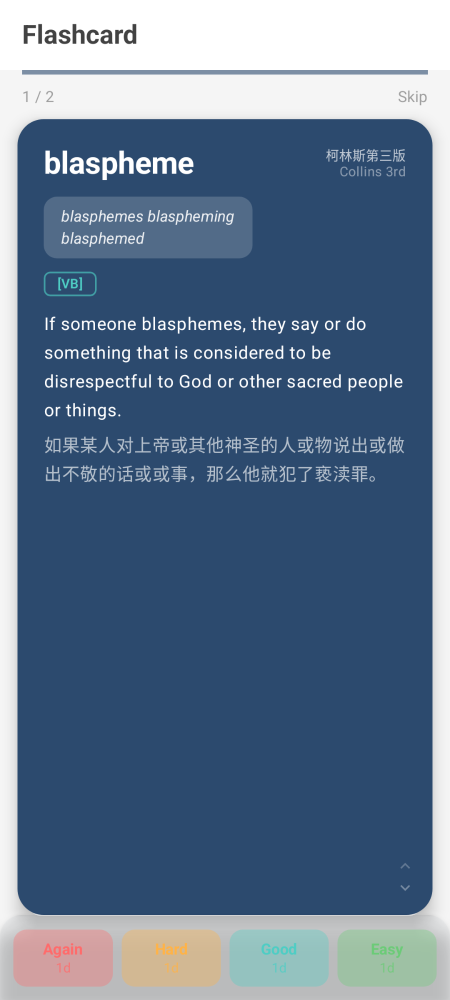
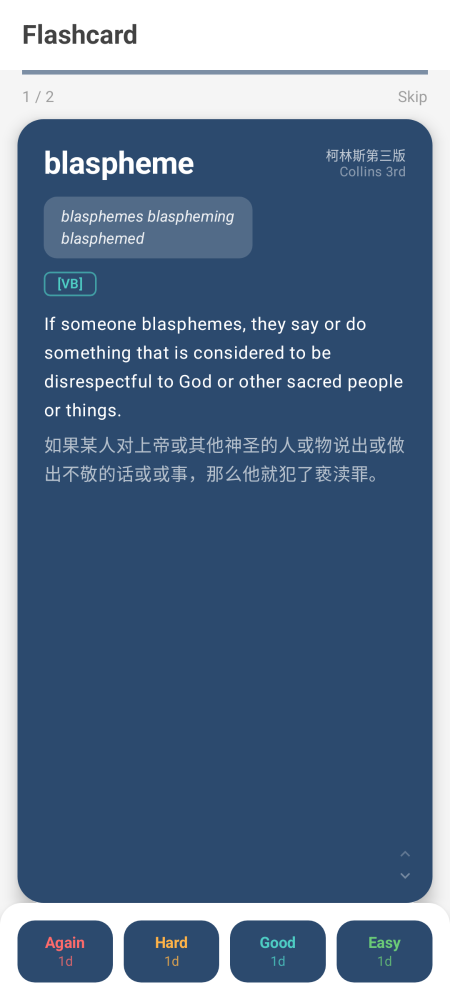
style: flashcard rating buttons - navy blue solid background with white container

Changed region(s): [[0.0, 0.868, 1.0, 1.0]]

diff --git a/android_project/app/src/test/java/io/github/gdict/ui/screens/ScreenshotTest.kt b/android_project/app/src/test/java/io/github/gdict/ui/screens/ScreenshotTest.kt
@@ -773,28 +773,20 @@ private fun FlashcardBackSnapshot() {
         Surface(
             modifier = Modifier.fillMaxWidth(),
             shape = RoundedCornerShape(topStart = 20.dp, topEnd = 20.dp),
-            color = GdictColors.NavyBlue.copy(alpha = 0.03f),
+            color = Color.White,
             shadowElevation = 8.dp
         ) {
-            Column {
-                Box(
-                    modifier = Modifier
-                        .fillMaxWidth()
-                        .height(1.dp)
-                        .background(GdictColors.MediumGray.copy(alpha = 0.15f))
-                )
-                Row(
-                    modifier = Modifier
-                        .fillMaxWidth()
-                        .padding(horizontal = 12.dp, vertical = 12.dp),
-                    horizontalArrangement = Arrangement.spacedBy(8.dp)
-                ) {
+            Row(
+                modifier = Modifier
+                    .fillMaxWidth()
+                    .padding(horizontal = 16.dp, vertical = 16.dp),
+                horizontalArrangement = Arrangement.spacedBy(10.dp)
+            ) {
                     RatingButtonSnapshot("Again", "1d", GdictColors.CoralAccent)
                     RatingButtonSnapshot("Hard", "1d", GdictColors.AmberAccent)
                     RatingButtonSnapshot("Good", "1d", GdictColors.TealAccent)
                     RatingButtonSnapshot("Easy", "1d", GdictColors.MintGreen)
                 }
-            }
         }
     }
 }
@@ -805,9 +797,9 @@ private fun RowScope.RatingButtonSnapshot(label: String, interval: String, color
         horizontalAlignment = Alignment.CenterHorizontally,
         modifier = Modifier
             .weight(1f)
-            .clip(RoundedCornerShape(12.dp))
-            .background(color.copy(alpha = 0.35f))
-            .padding(vertical = 10.dp, horizontal = 4.dp)
+            .clip(RoundedCornerShape(16.dp))
+            .background(GdictColors.NavyBlue)
+            .padding(vertical = 12.dp, horizontal = 8.dp)
     ) {
         Text(
             label,

diff --git a/android_project/app/src/main/java/io/github/gdict/ui/screens/FlashcardScreen.kt b/android_project/app/src/main/java/io/github/gdict/ui/screens/FlashcardScreen.kt
@@ -639,23 +639,15 @@ private fun RatingButtonsRow(
     Surface(
         modifier = Modifier.fillMaxWidth(),
         shape = RoundedCornerShape(topStart = 20.dp, topEnd = 20.dp),
-        color = if (scheduling.isNotEmpty()) {
-            GdictColors.NavyBlue.copy(alpha = 0.03f)
-        } else Color.Transparent,
+        color = Color.White,
         shadowElevation = 8.dp
     ) {
         Column {
-            Box(
-                modifier = Modifier
-                    .fillMaxWidth()
-                    .height(1.dp)
-                    .background(GdictColors.MediumGray.copy(alpha = 0.15f))
-            )
             Row(
                 modifier = Modifier
                     .fillMaxWidth()
-                    .padding(horizontal = 12.dp, vertical = 12.dp),
-                horizontalArrangement = Arrangement.spacedBy(8.dp)
+                    .padding(horizontal = 16.dp, vertical = 16.dp),
+                horizontalArrangement = Arrangement.spacedBy(10.dp)
             ) {
                 RatingButton(
                     rating = Rating.Again,
@@ -710,10 +702,10 @@ private fun RatingButton(
         horizontalAlignment = Alignment.CenterHorizontally,
         verticalArrangement = Arrangement.spacedBy(2.dp),
         modifier = modifier
-            .clip(RoundedCornerShape(12.dp))
-            .background(color.copy(alpha = 0.35f))
+            .clip(RoundedCornerShape(16.dp))
+            .background(GdictColors.NavyBlue)
             .clickable { onClick(rating) }
-            .padding(vertical = 10.dp, horizontal = 4.dp)
+            .padding(vertical = 12.dp, horizontal = 8.dp)
     ) {
         Text(
             text = rating.name,
